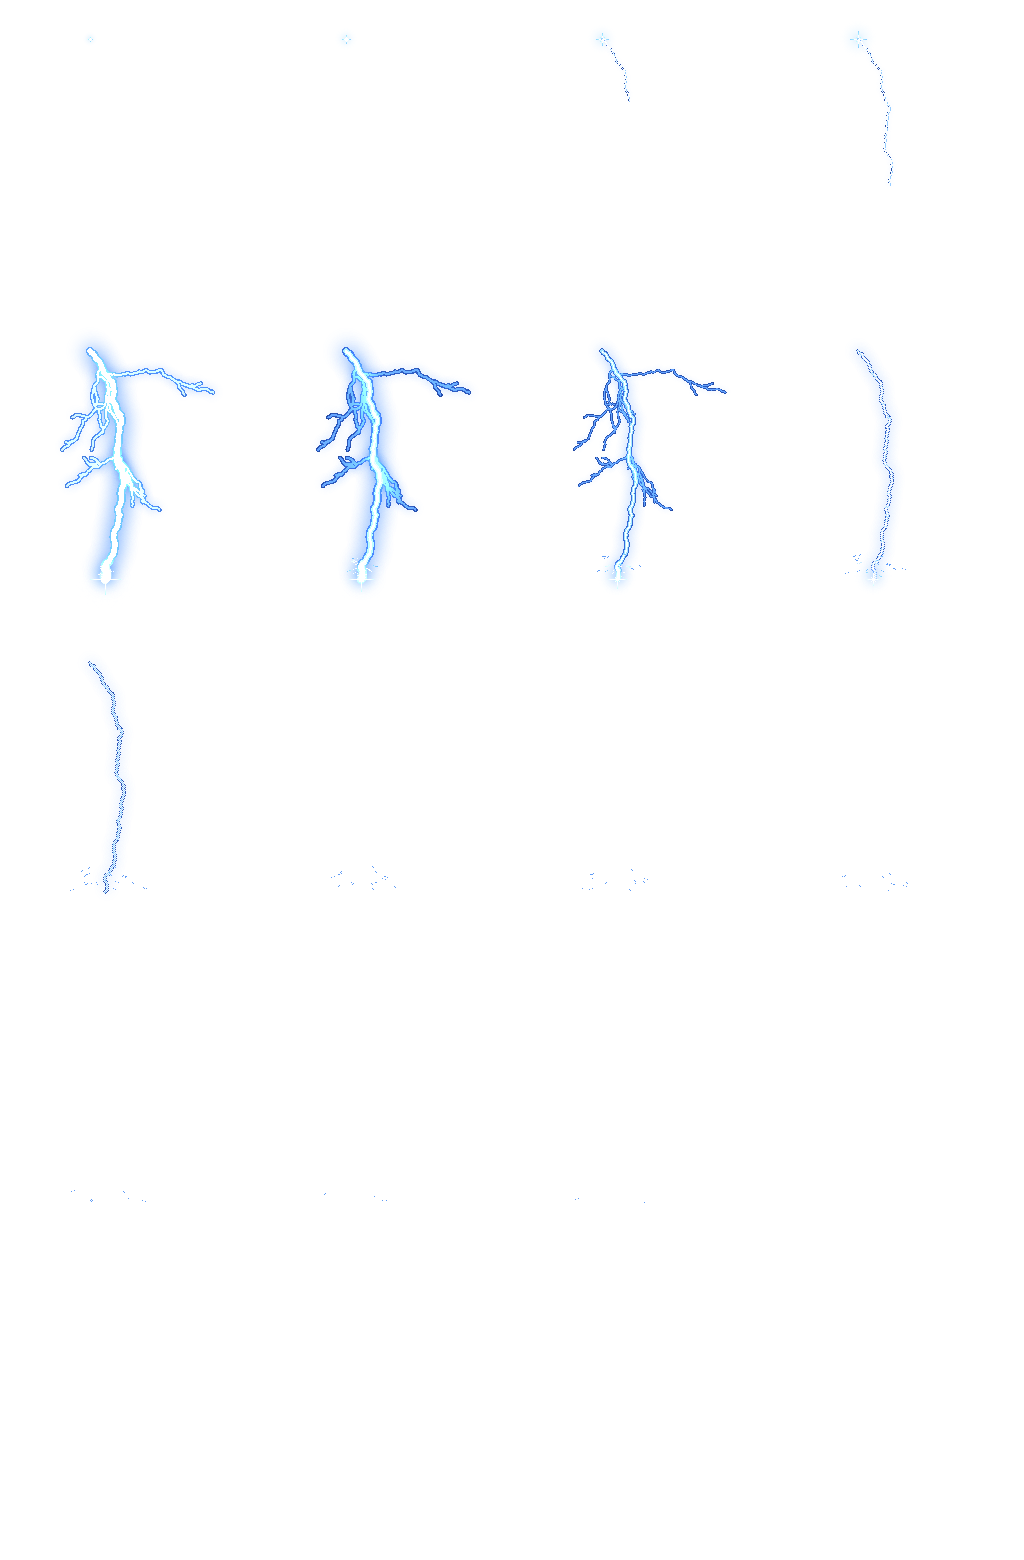
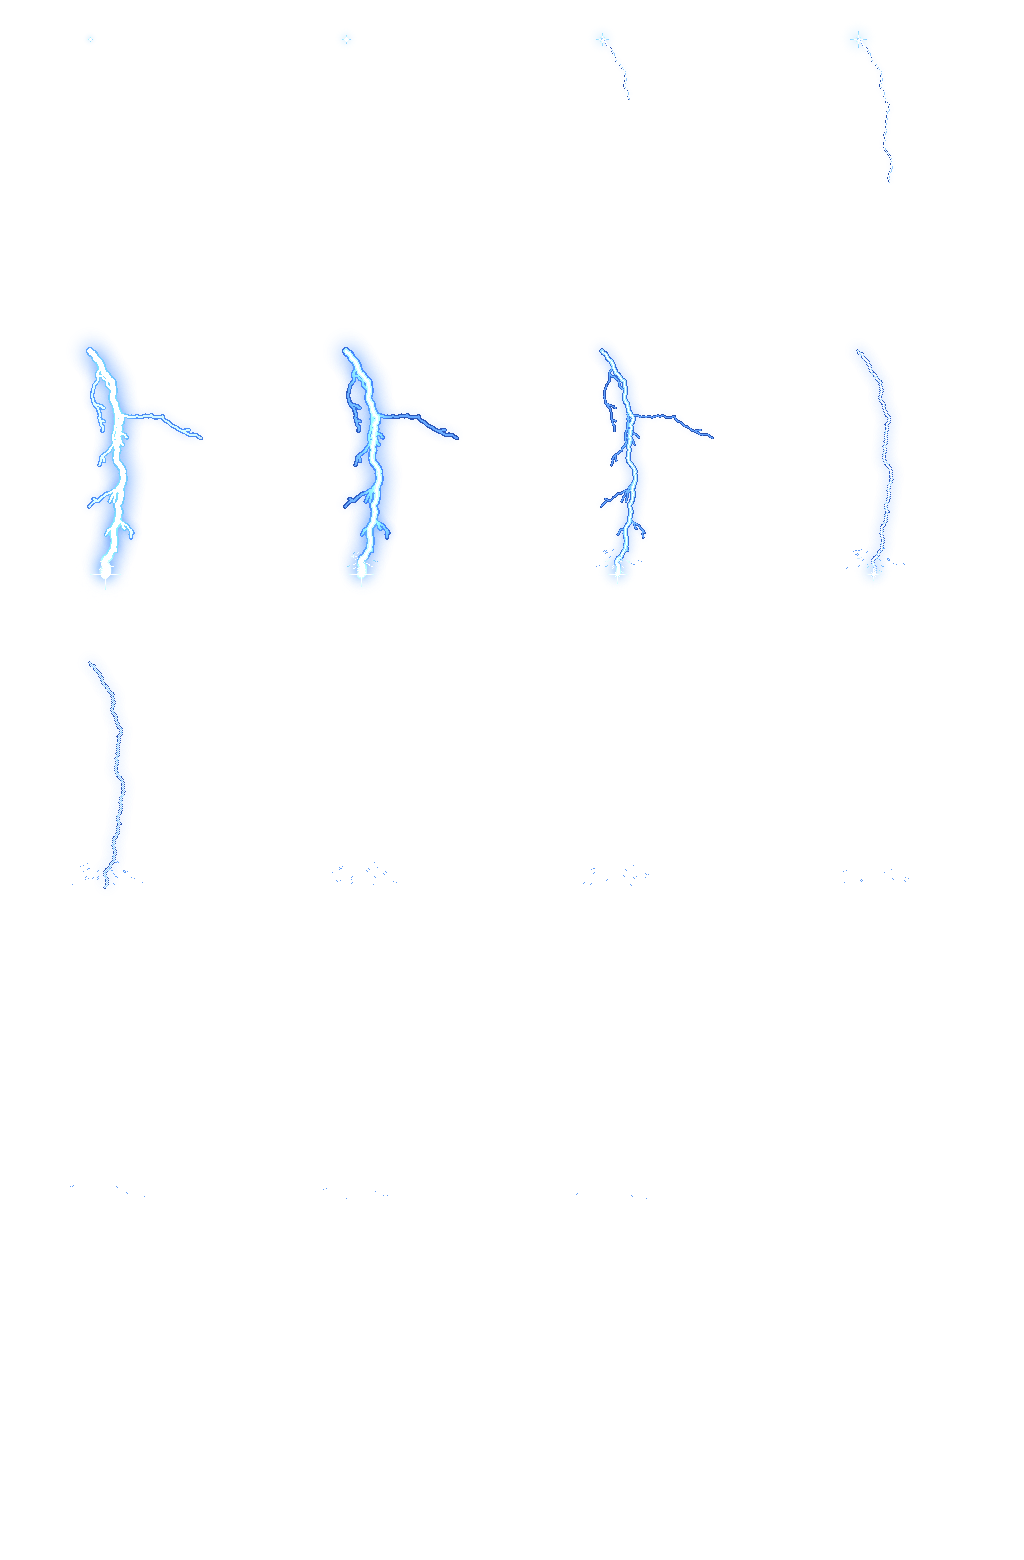
art(level): 노출된 구리 심선에서 낙뢰 시작
시작 케이블의 피복 손상을 표현하고 낙뢰 시작점을 심선 끝에 맞춘다.

맵과 시트 접점을 검사하고 실제 SDL에서 방전·워든 등장·재시작·조기 이동을 확인했다. 전체 레벨 주행은 미실행이다.

diff --git a/docs/game-design.md b/docs/game-design.md
@@ -42,7 +42,7 @@
 
 ## 첫 레벨 전원 구역
 
-2026-11-24 사용자 요청으로 첫 레벨을 컴퓨터 파워서플라이 내부에 만든다. 케이스 왼쪽 상단 케이블에서 짧은 방전이 시작된다. 갈라진 번개가 바닥을 때리면 발밑으로 불꽃이 퍼지고 워든이 나타난다. R로 재시작하면 등장 연출을 다시 재생하며, 조작 입력이 들어오면 즉시 워든을 드러낸다. 방열판을 뛰어넘어 코일·콘덴서 사이의 금속 먼지와 마주친다. 전력 변환부의 상부 발판과 전하를 이용할 수 있고, 동선은 우측 출력 단자에서 끝난다. 단자 가까운 바닥에 닿으면 표시등이 주황색에서 청록색으로 바뀐다. 기획서 16~18쪽의 선형 진행과 부품을 적용했다. 전체 진행 규칙과 보스·회복·저장은 미정 설계로 남아 있다.
+2026-11-24 사용자 요청으로 첫 레벨을 컴퓨터 파워서플라이 내부에 만든다. 케이스 왼쪽 상단 케이블의 찢어진 피복 사이로 드러난 구리 심선에서 짧은 방전이 시작된다. 갈라진 번개가 바닥을 때리면 발밑으로 불꽃이 퍼지고 워든이 나타난다. R로 재시작하면 등장 연출을 다시 재생하며, 조작 입력이 들어오면 즉시 워든을 드러낸다. 방열판을 뛰어넘어 코일·콘덴서 사이의 금속 먼지와 마주친다. 전력 변환부의 상부 발판과 전하를 이용할 수 있고, 동선은 우측 출력 단자에서 끝난다. 단자 가까운 바닥에 닿으면 표시등이 주황색에서 청록색으로 바뀐다. 기획서 16~18쪽의 선형 진행과 부품을 적용했다. 전체 진행 규칙과 보스·회복·저장은 미정 설계로 남아 있다.
 
 `main.py`가 전원 구역을 열고, `main.py --training`으로 플랫폼 훈련장을 실행한다. 원경·소품·발판의 hi-bit 에셋과 충돌 배치는 [맵 데이터](../assets/levels/power-supply/map.json), 검사 결과는 [검증 기록](../specs/021-power-supply-level/verification.md)을 참조한다.
 

diff --git a/docs/progress.md b/docs/progress.md
@@ -4,7 +4,7 @@
 
 ## 현재 단계
 
-- **첫 레벨 낙뢰 등장:** 2026-11-24 사용자 요청으로 상단 케이블의 선행 방전, 굵게 갈라지는 번개, 바닥 섬광과 불꽃을 적용했다. 실제 SDL에서 타격과 등장, R 재시작과 조기 이동을 확인했다. [실제 화면](../art/levels/power-supply/lightning-strike/lightning-strike.gif) · [검증](../specs/021-power-supply-level/verification.md#낙뢰-타격과-등장-강화-검증).
+- **첫 레벨 낙뢰 등장:** 2026-11-24 사용자 요청으로 상단 케이블의 찢어진 피복 아래 구리 심선이 드러나도록 수정했다. 실제 SDL에서 노출 심선과 방전의 접점, 워든 등장, R 재시작과 조기 이동을 확인했다. [실제 화면](../art/levels/power-supply/exposed-cable/exposed-cable.gif) · [검증](../specs/021-power-supply-level/verification.md#노출-구리-심선-검증).
 
 - **파워서플라이 2픽셀 확정:** 2026-11-24 사용자가 3픽셀과 2픽셀을 비교해 2픽셀을 채택했다. 기본 1280×720 창에서 640×360을 최근접 확대한다. [실제 게임 비교](../art/levels/power-supply/pixel-grid-comparison/3px-vs-2px.png) · [검증](../specs/021-power-supply-level/verification.md#2픽셀과-3픽셀-비교).
 

diff --git a/specs/021-power-supply-level/spec.md b/specs/021-power-supply-level/spec.md
@@ -30,7 +30,7 @@
 - **FR-004** 원거리 배경·연결 가능한 구조물·랜드마크·가까운 차폐를 분리한다.
 - **FR-005** 낮게 뭉친 먼지를 바닥·발판 가장자리와 원경 부품에 표현하고 흡기 팬 날개를 고정 프레임 안에서 회전시킨다.
 - **FR-006** 첫 레벨 전체를 공통 픽셀 격자로 표시한다. 2026-11-24 사용자 결정으로 기본 창에서 한 칸을 2×2 화면 픽셀로 확정했다. 기존 카메라 시야와 입력 좌표를 유지한다.
-- **FR-007** 첫 레벨을 열거나 R로 다시 시작하면, 케이스 상단 케이블에서 갈라진 번개가 바닥을 때리고 발밑으로 불꽃이 퍼지며 워든이 나타난다. 플레이 입력은 등장 연출을 끝내고 정상 처리한다.
+- **FR-007** 첫 레벨을 열거나 R로 다시 시작하면, 케이스 상단 케이블의 노출된 구리 심선에서 갈라진 번개가 바닥을 때리고 발밑으로 불꽃이 퍼지며 워든이 나타난다. 플레이 입력은 등장 연출을 끝내고 정상 처리한다.
 
 ### Constraints
 

diff --git a/specs/021-power-supply-level/plan.md b/specs/021-power-supply-level/plan.md
@@ -33,3 +33,5 @@
 기존 상단 케이블에서 아래쪽 워든으로 이어지도록 전류 시작 좌표를 지정하고 입구 장식 인렛을 맵에서 제거한다. 기존 전류 애니메이션과 340ms 등장, 즉시 입력 처리, 스폰과 충돌 배치를 재사용한다. 실제 SDL에서 케이블과 방전의 연결, 워든 등장, R 재시작과 조기 이동을 확인한다.
 
 등장 전용 pixelfx 시트에 선행 방전, 굵은 번개와 국부 섬광, 바닥 불꽃을 굽는다. 낙뢰 타격 시점에 워든이 떠오르기 시작한다. 기존 340ms 등장과 입력 조기 종료를 유지하며 일반 전하 연결에는 기존 에셋을 사용한다. 실제 SDL에서 첫 타격·잔광과 재시작·입력 중단을 확인한다.
+
+시작 케이블의 굽은 부분에만 찢어진 피복과 노출 심선을 합성한다. 심선 끝에 시작 좌표를 지정하고 기존 타격 시트를 다시 굽는다. 맵 배치와 실제 SDL에서 방전과 심선의 접점을 확인한다.

diff --git a/specs/021-power-supply-level/tasks.md b/specs/021-power-supply-level/tasks.md
@@ -33,3 +33,4 @@
 - [x] T017 실제 C14의 삽입구와 얕은 돌출 비율을 반영하고 벽면 스폰 연결 검사 (`assets/levels/power-supply/`, `verification.md`, `docs/`)
 - [x] T018 상단 케이블 낙뢰로 등장 연출 교체, 인렛 제거, SDL 등장·입력 및 맵 검사 (`assets/levels/power-supply/`, `verification.md`, `docs/`)
 - [x] T019 갈라진 번개와 바닥 충격의 등장 전용 시트 제작·통합·SDL 확인 (`scripts/bake-effects/`, `assets/levels/power-supply/`, `game/scene.py`, `verification.md`, `docs/`)
+- [x] T020 시작 케이블의 피복 손상과 구리 심선 제작, 낙뢰 접점 정합 및 SDL 확인 (`assets/levels/power-supply/`, `verification.md`, `docs/`)
